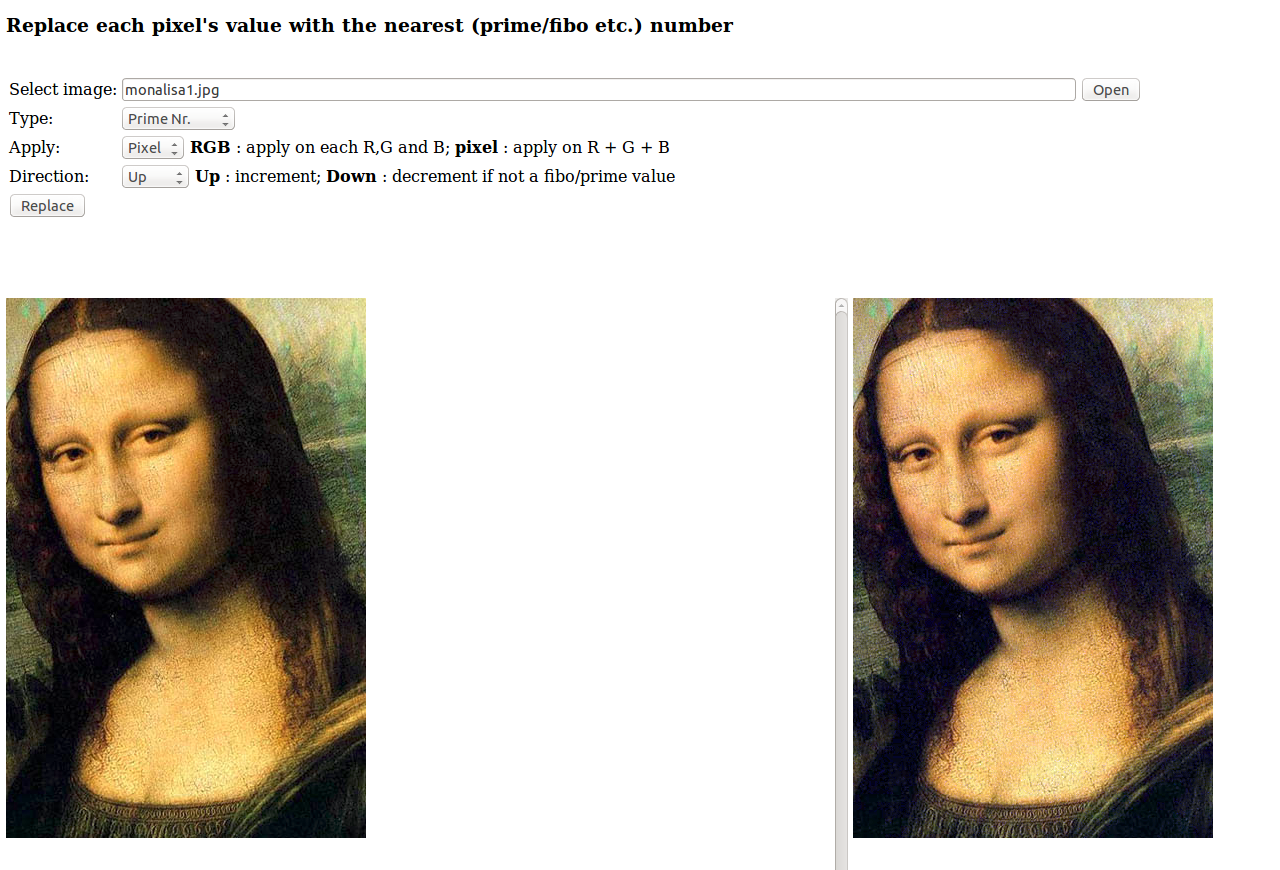
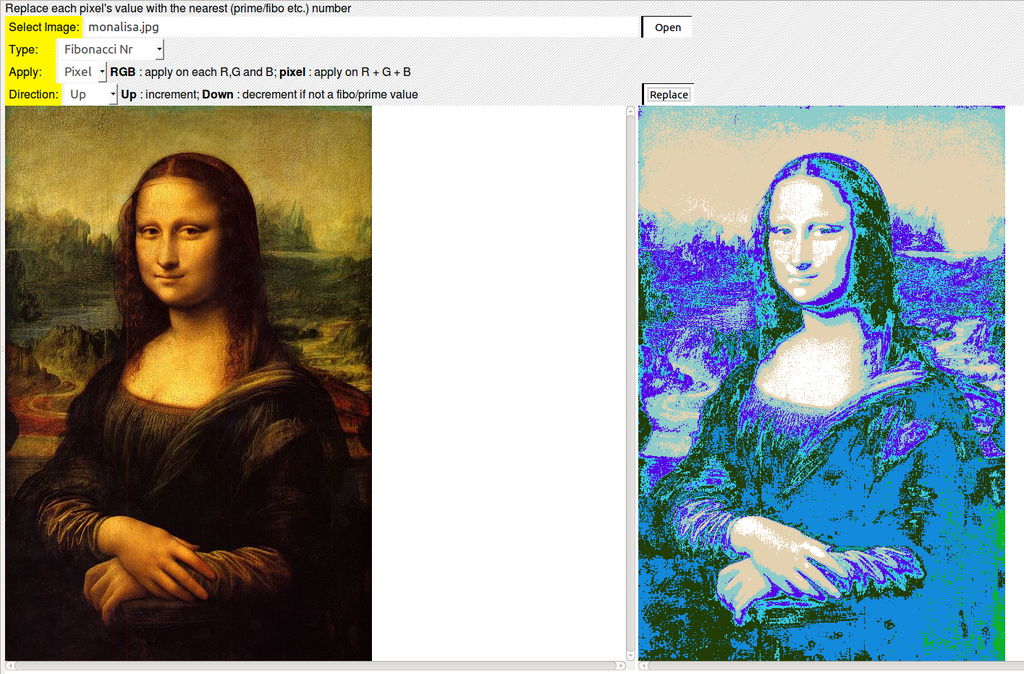
add more examples; update JS version

diff --git a/js/nearest.js b/js/nearest.js
@@ -1,86 +1,91 @@
-
 function loadCanvas(imagePath) {
-	
-    var c=document.getElementById("originalCanvas");
-    var ctx=c.getContext("2d");
-    var img=new Image();
-    img.onload = function(){
-    	  c.width = img.width;
-    	  c.height = img.height;
-          ctx.drawImage(img,0,0, img.width, img.height);
-    };
-    img.crossOrigin = 'anonymous';
-    img.src=imagePath;
+
+	var c = document.getElementById("originalCanvas");
+	var ctx = c.getContext("2d");
+	var img = new Image();
+	img.onload = function() {
+		c.width = img.width;
+		c.height = img.height;
+		ctx.drawImage(img, 0, 0, img.width, img.height);
+	};
+	img.crossOrigin = 'anonymous';
+	img.src = imagePath;
 }
 
 function nearest(type, apply, dir) {
-	var  originalCanvas = document.getElementById("originalCanvas");
+	var originalCanvas = document.getElementById("originalCanvas");
 	var nearCanvas = document.getElementById("nearCanvas");
 	var originalCtx = originalCanvas.getContext("2d");
 	var nearCtx = nearCanvas.getContext("2d");
 
 	nearCanvas.width = originalCanvas.width;
 	nearCanvas.height = originalCanvas.height;
-	
-	var originalImgData = originalCtx.getImageData(0, 0, originalCanvas.width, originalCanvas.height);
+
+	var originalImgData = originalCtx.getImageData(0, 0, originalCanvas.width,
+			originalCanvas.height);
 	var originalPixels = originalImgData.data;
-	
+
 	var func;
 	var direction;
-	
-	if (type == "prime")
+
+	if (type === "prime")
 		func = isPrime;
-    else if (type == "fibo")
-    	func = isFibo;
-	
+	else if (type === "fibo")
+		func = isFibo;
+	else if (type === "psquare")
+		func = isPerfectSquare;
+	else if (type === "pentagonal")
+		func = isPentagonal;
+
 	if (dir == "up")
 		direction = 1;
 	else if (dir == "down")
 		direction = -1;
-	
-	nearestImageData = nearCtx.createImageData(nearCanvas.width, nearCanvas.height);
-	
+
+	nearestImageData = nearCtx.createImageData(nearCanvas.width,
+			nearCanvas.height);
+
 	if (apply == "pixel") {
 		for (var i = 0; i < originalPixels.length; i += 4) {
-		    var r = originalPixels[i];
-		    var g = originalPixels[i+1];
-		    var b = originalPixels[i+2];
-		    var a = originalPixels[i+3];
-		    
-		    var pVal = rgbToInt(r, g, b);
-		    var newPVal = getNearest(pVal, direction, func);
-		    var newRgba = intToRgb(newPVal);
-		    
-		    nearestImageData.data[i] = newRgba[0];
-		    nearestImageData.data[i+1] = newRgba[1];
-		    nearestImageData.data[i+2] = newRgba[2];
-		    nearestImageData.data[i+3] = a;
+			var r = originalPixels[i];
+			var g = originalPixels[i + 1];
+			var b = originalPixels[i + 2];
+			var a = originalPixels[i + 3];
+
+			var pVal = rgbToInt(r, g, b);
+			var newPVal = getNearest(pVal, direction, func);
+
+			var newRgb = intToRgb(newPVal);
+
+			nearestImageData.data[i] = newRgb[0];
+			nearestImageData.data[i + 1] = newRgb[1];
+			nearestImageData.data[i + 2] = newRgb[2];
+			nearestImageData.data[i + 3] = a;
 		}
 	} else if (apply == "rgb") {
 		for (var i = 0; i < originalPixels.length; i += 4) {
-		    var r = originalPixels[i];
-		    var g = originalPixels[i+1];
-		    var b = originalPixels[i+2];
-		    var a = originalPixels[i+3];
+			var r = originalPixels[i];
+			var g = originalPixels[i + 1];
+			var b = originalPixels[i + 2];
+			var a = originalPixels[i + 3];
 
-		    var nr = getNearest(r, direction, func);
-		    var ng = getNearest(g, direction, func);
-		    var nb = getNearest(b, direction, func);
-		    var na = getNearest(a, direction, func);
-		    
-		    //TODO
-		    nr = nr % 255;
-		    ng = ng % 255;
-		    nb = nb % 255;
-		    na = 255;
-		    
-		    nearestImageData.data[i] = nr;
-		    nearestImageData.data[i+1] = ng;
-		    nearestImageData.data[i+2] = nb;
-		    nearestImageData.data[i+3] = na;
+			var nr = getNearest(r, direction, func);
+			var ng = getNearest(g, direction, func);
+			var nb = getNearest(b, direction, func);
+			
+			// TODO
+			nr = nr % 255;
+			ng = ng % 255;
+			nb = nb % 255;
+			na = 255;
+
+			nearestImageData.data[i] = nr;
+			nearestImageData.data[i + 1] = ng;
+			nearestImageData.data[i + 2] = nb;
+			nearestImageData.data[i + 3] = na;
 		}
 	}
-	
+
 	nearCtx.putImageData(nearestImageData, 0, 0);
 }
 
@@ -91,34 +96,38 @@ function rgbaToInt(r, g, b, a) {
 function intToRgba(color) {
 	var r = color >> 24 & 0xFF;
 	var g = color >> 16 & 0xFF;
-	var b = color >> 8 & 0xFF; 
+	var b = color >> 8 & 0xFF;
 	var a = color & 0xFF;
-	
-	return [r, g, b, a];
+
+	return [ r, g, b, a ];
 }
 
-function rgbToInt(r, g, b, a) {
+function rgbToInt(r, g, b) {
 	return (r << 16) | (g << 8) | (b);
 }
 
 function intToRgb(color) {
 	var r = color >> 16 & 0xFF;
-	var g = color >> 8 & 0xFF; 
+	var g = color >> 8 & 0xFF;
 	var b = color & 0xFF;
-	
-	return [r, g, b];
+
+	return [ r, g, b ];
 }
 
 function getNearest(number, dir, func) {
-	while (!func(number))
-		number += dir;
-	
-	return number;
+	if (func === isFibo) {
+		return isFibo(number, dir);
+	} else {
+		while (!func(number))
+			number += dir;
+
+		return number;
+	} 
 }
 
 function isPrime(number) {
 	var range = Math.round(Math.sqrt(number)) + 1;
-	
+
 	for (var i = 2; i < range; i++) {
 		if (number % i == 0)
 			return false;
@@ -127,29 +136,35 @@ function isPrime(number) {
 	return true
 }
 
-function isFibo(number) {
-	var phi = 0.5 + 0.5 * Math.sqrt(5.0)
-    var a = phi * number;
-    return number == 0 || Math.abs(Math.round(a) - a) < 1.0 / number;
+function isPerfectSquare(x) {
+	var s = Math.round(Math.sqrt(x));
+	return (s * s == x);
 }
 
+function isFibo(n, dir) {
+	for (var i=1; i<fibos.length-1;i++) {
+		if (n >= fibos[i-1] && n<fibos[i]) {
+			if (dir > 0) {
+				return fibos[i];
+			} else {
+				return fibos[i-1];
+			}
+		}
+	}
+	return -1;
+//	return isPerfectSquare(5 * n * n + 4) || isPerfectSquare(5 * n * n - 4);
+}
 
-/*var imageLoader = document.getElementById('imageLoader');
-    imageLoader.addEventListener('change', handleImage, false);
-var canvas = document.getElementById('imageCanvas');
-var ctx = canvas.getContext('2d');
+function isPentagonal(n) {
+	return isPerfectSquare(24 * n + 1);
+}
 
+// function isFibo(number) {
+// var a = 1.618 * number;
+// return number == 0 || Math.abs(Math.round(a) - a) < (1.0 / number);
+// }
 
-function handleImage(e){
-    var reader = new FileReader();
-    reader.onload = function(event){
-        var img = new Image();
-        img.onload = function(){
-            canvas.width = img.width;
-            canvas.height = img.height;
-            ctx.drawImage(img,0,0);
-        }
-        img.src = event.target.result;
-    }
-    reader.readAsDataURL(e.target.files[0]);     
-}*/
+var fibos = [ 1, 2, 3, 5, 8, 13, 21, 34, 55, 89, 144, 233, 377, 610, 987, 1597,
+		2584, 4181, 6765, 10946, 17711, 28657, 46368, 75025, 121393, 196418,
+		317811, 514229, 832040, 1346269, 2178309, 3524578, 5702887, 9227465,
+		14930352, 24157817 ];

diff --git a/js/nearest.html b/js/nearest.html
@@ -1,0 +1,55 @@
+<html>
+
+<head>
+
+<meta charset="UTF-8">
+<meta name="viewport" content="width=device-width, initial-scale=1.0">
+<title>generativ - nearest</title>
+
+<script type="text/javascript" src="nearest.js"></script>
+<script src="../../jquery-2.1.1.min.js"></script>
+
+<link rel="stylesheet" type="text/css" href="../apps-style.css">
+
+</head>
+
+<body>
+    <div id="#input-zone" class="pattern01">
+		Replace each pixel's value with the nearest (prime/fibo etc.) number<br>
+		<label class="clabel">Select Image:</label>
+		<input id="fileUrl" class="cinput" type="text" name="fileUrl" size="70" value="monalisa.jpg">
+		<button id="openButton" class="cbutton" onclick="loadCanvas($('#fileUrl').val());">Open</button><br>
+		<label class="clabel">Type:</label>
+		<select id="nearestVal" class="cinput">
+			<option value="prime">Prime Nr.</option>
+			<option value="fibo">Fibonacci Nr</option>
+			<option value="psquare">Perfect Square</option>
+			<option value="pentagonal">Pentagonal</option>
+		</select>
+		<br>
+		<label class="clabel">Apply:</label>
+		<select id="applyVal" class="cinput">
+			<option value="rgb">RGB</option>
+			<option value="pixel">Pixel</option>
+		</select> 
+		<b>RGB</b> : apply on each R,G and B; <b>pixel</b> : apply on R + G + B
+		<br>
+		<label class="clabel">Direction:</label> 
+		<select id="nearestDir" class="cinput">
+			<option value="up">Up</option>
+			<option value="down">Down</option>
+		</select> <b>Up</b> : increment; <b>Down</b> : decrement if not a fibo/prime value
+		<button type="button" class="cbutton" style="margin-left: 305px;" onclick='nearest($("#nearestVal").val(), $("#applyVal").val(), $("#nearestDir").val());'>Replace</button>
+	</div>
+
+	<div style="display: inline-block; width: 100%;">
+		<div class="canvasScroll">
+			<canvas id="originalCanvas"></canvas>
+		</div>
+		<div class="canvasScroll">
+			<canvas id="nearCanvas"></canvas>
+		</div>
+	</div>	
+</body>
+
+</html>

diff --git a/README.md b/README.md
@@ -3,6 +3,20 @@ nearest
 
 For images: replace a pixel's value with the nearest prime, fibonacci etc. number.
 
-javascript example:
+javascript examples:
 
 ![alt ex1.png](https://github.com/alexadam/nearest/blob/master/ex1.png?raw=true "ex1.png")
+
+![alt ex2.png](https://github.com/alexadam/nearest/blob/master/ex2.png?raw=true "ex2.png")
+
+![alt ex3.png](https://github.com/alexadam/nearest/blob/master/ex3.png?raw=true "ex3.png")
+
+![alt ex4.png](https://github.com/alexadam/nearest/blob/master/ex4.png?raw=true "ex4.png")
+
+![alt ex5.png](https://github.com/alexadam/nearest/blob/master/ex5.png?raw=true "ex5.png")
+
+![alt ex6.png](https://github.com/alexadam/nearest/blob/master/ex6.png?raw=true "ex6.png")
+
+![alt ex7.png](https://github.com/alexadam/nearest/blob/master/ex7.png?raw=true "ex7.png")
+
+![alt ex8.png](https://github.com/alexadam/nearest/blob/master/ex8.png?raw=true "ex8.png")
